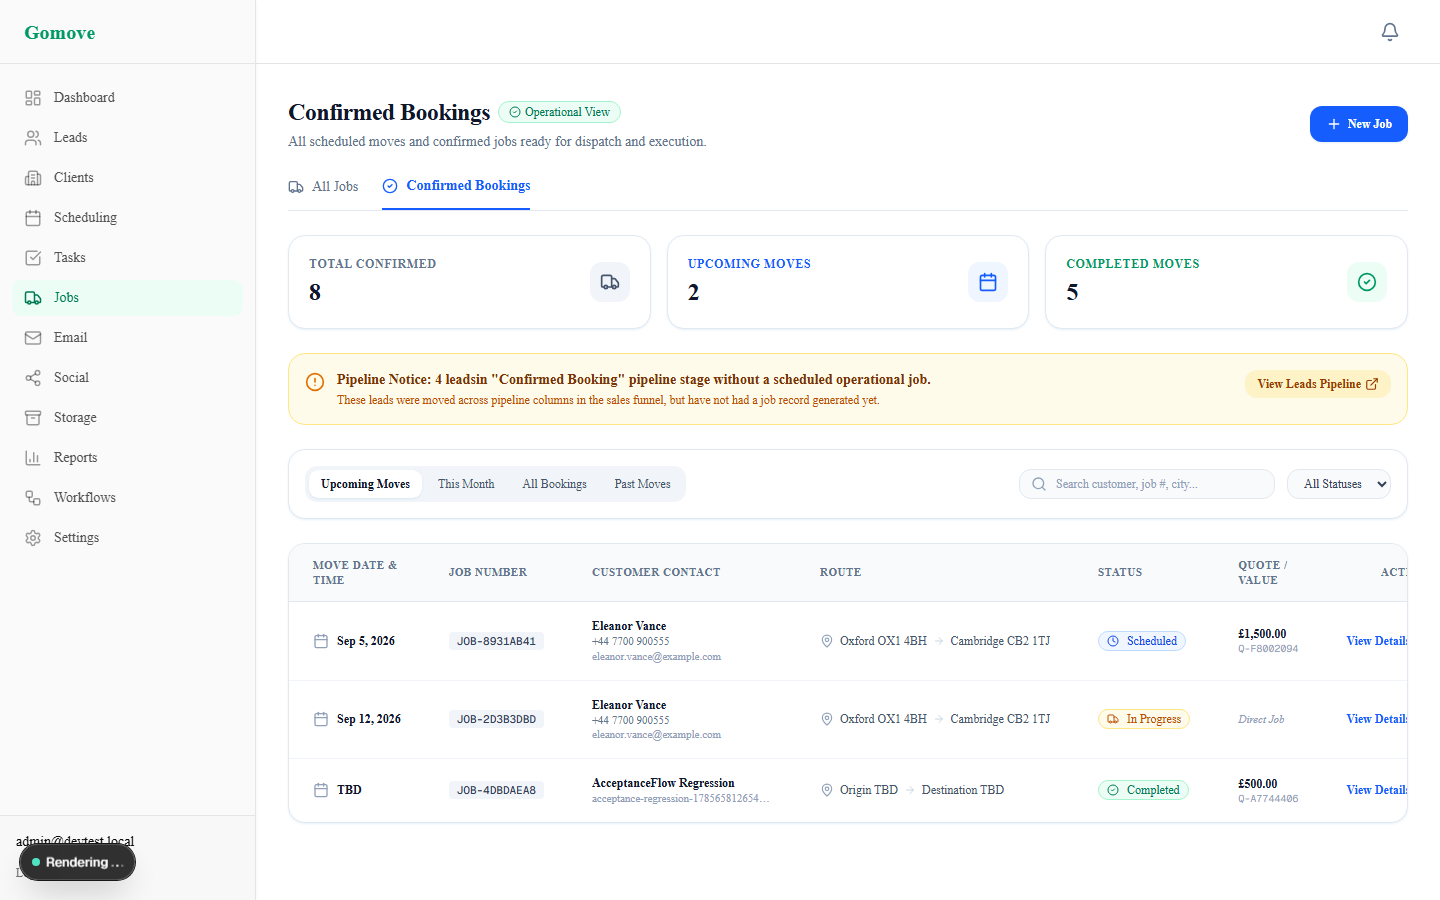
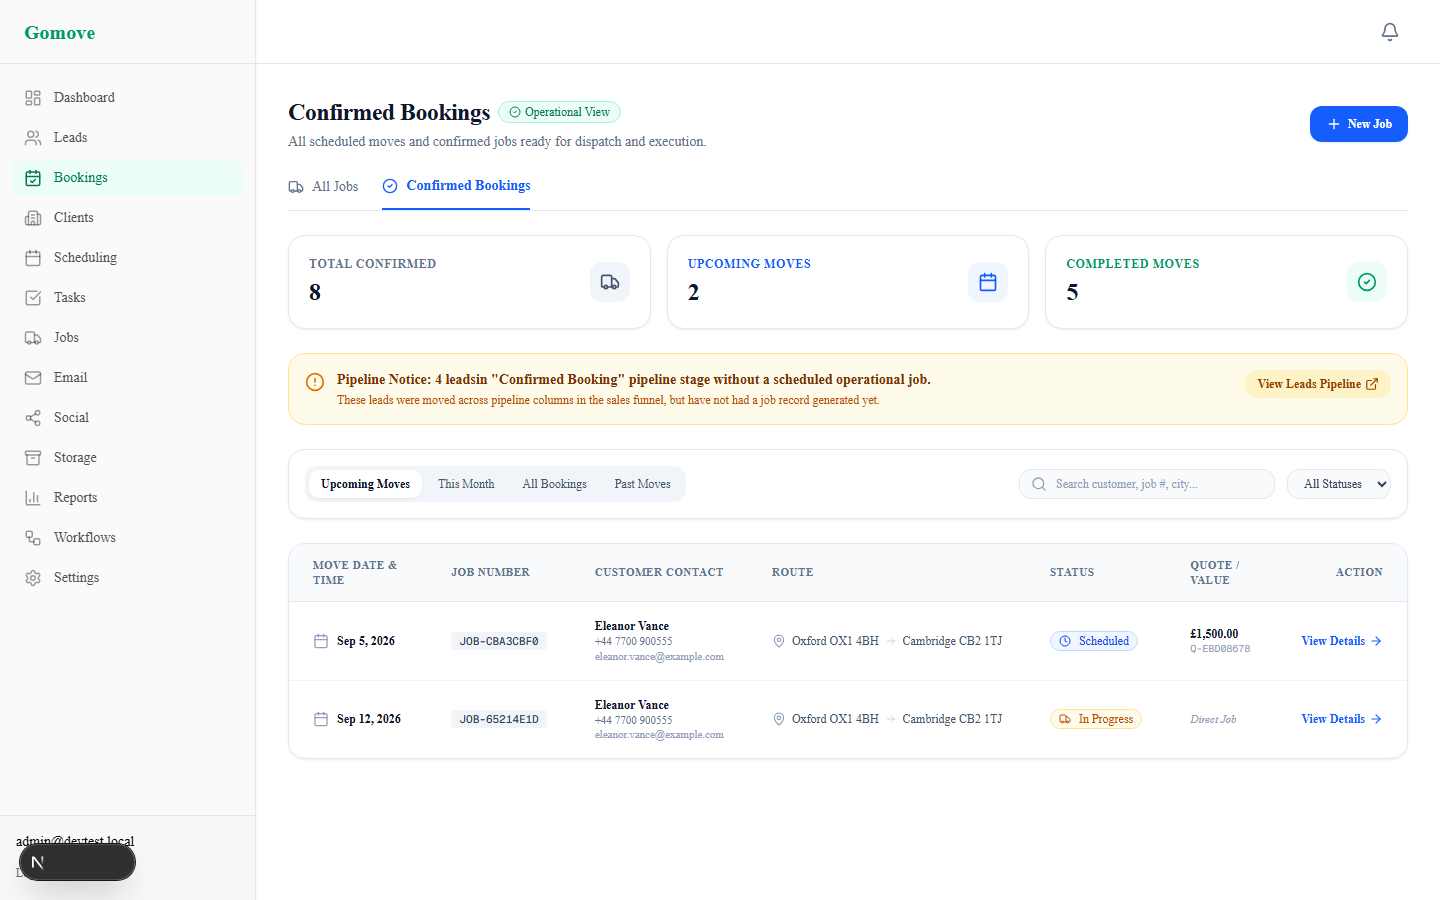
feat(nav): add Bookings to sidebar navigation and refine upcoming filter

diff --git a/src/app/office/jobs/confirmed/components/confirmed-bookings-table.tsx b/src/app/office/jobs/confirmed/components/confirmed-bookings-table.tsx
@@ -41,8 +41,10 @@ export function ConfirmedBookingsTable({
     initialBookings.forEach((b) => {
       if (b.status === 'completed') completed++
       if (b.status === 'scheduled') scheduled++
-      if (b.move_date && (isFuture(new Date(b.move_date)) || format(new Date(b.move_date), 'yyyy-MM-dd') === format(new Date(), 'yyyy-MM-dd'))) {
-        upcoming++
+      if (b.status !== 'completed' && b.status !== 'cancelled') {
+        if (!b.move_date || isFuture(new Date(b.move_date)) || format(new Date(b.move_date), 'yyyy-MM-dd') === format(new Date(), 'yyyy-MM-dd')) {
+          upcoming++
+        }
       }
     })
 
@@ -59,7 +61,8 @@ export function ConfirmedBookingsTable({
     return initialBookings.filter((job) => {
       // 1. Timeframe filter
       if (timeframe === 'upcoming') {
-        if (!job.move_date) return true // TBD moves are considered upcoming
+        if (job.status === 'completed' || job.status === 'cancelled') return false
+        if (!job.move_date) return true // TBD scheduled moves are considered upcoming
         const moveDate = new Date(job.move_date)
         const isUpcomingDate =
           isFuture(moveDate) ||
@@ -88,10 +91,10 @@ export function ConfirmedBookingsTable({
         const customerName = `${job.contact?.first_name || ''} ${job.contact?.last_name || ''}`.toLowerCase()
         const customerEmail = (job.contact?.email || '').toLowerCase()
         const customerPhone = (job.contact?.phone || '').toLowerCase()
-        const jobNumber = (job.job_number || '').toLowerCase()
+        const jobNumber = `JOB-${job.id.slice(0, 8).toUpperCase()}`.toLowerCase()
         const originCity = (job.origin_address?.city || '').toLowerCase()
         const destCity = (job.destination_address?.city || '').toLowerCase()
-        const quoteNum = (job.quote?.quote_number || '').toLowerCase()
+        const quoteNum = job.quote ? `Q-${job.quote.id.slice(0, 8).toUpperCase()}`.toLowerCase() : ''
 
         return (
           customerName.includes(q) ||
@@ -197,7 +200,7 @@ export function ConfirmedBookingsTable({
           <AlertCircle className="w-5 h-5 text-amber-600 shrink-0 mt-0.5" />
           <div className="flex-1">
             <p className="text-sm font-semibold text-amber-900">
-              Pipeline Notice: {unlinkedLeadsCount} lead{unlinkedLeadsCount > 1 ? 's' : ''} in &quot;Confirmed Booking&quot; pipeline stage without a scheduled operational job.
+              Pipeline Notice: {unlinkedLeadsCount} {unlinkedLeadsCount === 1 ? 'lead' : 'leads'} in &quot;Confirmed Booking&quot; pipeline stage without a scheduled operational job.
             </p>
             <p className="text-xs text-amber-700 mt-0.5">
               These leads were moved across pipeline columns in the sales funnel, but have not had a job record generated yet.

diff --git a/scripts/inspect-counts.ts b/scripts/inspect-counts.ts
@@ -1,0 +1,63 @@
+import { createClient } from '@supabase/supabase-js'
+import * as dotenv from 'dotenv'
+import * as path from 'path'
+
+dotenv.config({ path: path.resolve(__dirname, '../.env.local') })
+
+const supabase = createClient(
+  process.env.NEXT_PUBLIC_SUPABASE_URL!,
+  process.env.SUPABASE_SERVICE_ROLE_KEY!
+)
+
+async function inspect() {
+  const { data: user } = await supabase
+    .from('users')
+    .select('tenant_id')
+    .eq('email', 'admin@devtest.local')
+    .single()
+
+  const tenantId = user!.tenant_id!
+
+  console.log('=== LEADS at confirmed_booking ===')
+  const { data: leads } = await supabase
+    .from('leads')
+    .select('id, contact:contacts(first_name, last_name), stage, stage_id')
+    .eq('tenant_id', tenantId)
+    .eq('stage', 'confirmed_booking')
+  console.log('Leads count:', leads?.length)
+  leads?.forEach((l) =>
+    console.log(
+      'Lead:',
+      l.id,
+      (l.contact as any)?.first_name,
+      (l.contact as any)?.last_name,
+      l.stage
+    )
+  )
+
+  console.log('\n=== ALL JOBS for this tenant ===')
+  const { data: jobs } = await supabase
+    .from('jobs')
+    .select('id, status, move_date, quote_id, contact:contacts(first_name, last_name), quote:quotes(id, lead_id)')
+    .eq('tenant_id', tenantId)
+  console.log('Jobs count:', jobs?.length)
+  jobs?.forEach((j) =>
+    console.log(
+      'Job ID:',
+      j.id,
+      'Status:',
+      j.status,
+      'Move date:',
+      j.move_date,
+      'Contact:',
+      (j.contact as any)?.first_name,
+      (j.contact as any)?.last_name,
+      'Quote ID:',
+      j.quote_id,
+      'Linked Lead ID:',
+      (j.quote as any)?.lead_id
+    )
+  )
+}
+
+inspect()

diff --git a/src/app/office/components/header-nav.tsx b/src/app/office/components/header-nav.tsx
@@ -9,6 +9,7 @@ import {
   Users, 
   Building2, 
   Calendar, 
+  CalendarCheck,
   CheckSquare, 
   Truck, 
   Mail, 
@@ -25,10 +26,16 @@ export function SidebarNav({ role }: { role?: string }) {
   const links = [
     { name: 'Dashboard', href: '/office', icon: LayoutDashboard, exact: true },
     { name: 'Leads', href: '/office/leads', icon: Users },
+    { name: 'Bookings', href: '/office/jobs/confirmed', icon: CalendarCheck },
     { name: 'Clients', href: '/office/clients', icon: Building2 },
     { name: 'Scheduling', href: '/office/scheduling', icon: Calendar },
     { name: 'Tasks', href: '/office/tasks', icon: CheckSquare },
-    { name: 'Jobs', href: '/office/jobs', icon: Truck },
+    { 
+      name: 'Jobs', 
+      href: '/office/jobs', 
+      icon: Truck, 
+      isActiveCustom: (path: string) => path === '/office/jobs' || (path.startsWith('/office/jobs/') && !path.startsWith('/office/jobs/confirmed'))
+    },
     { name: 'Email', href: '/office/email', icon: Mail },
     { name: 'Social', href: '/office/social', icon: Share2 },
     { name: 'Storage', href: '/office/storage', icon: Archive },
@@ -40,7 +47,9 @@ export function SidebarNav({ role }: { role?: string }) {
   return (
     <nav className="flex flex-col space-y-1 w-full">
       {links.map((link) => {
-        const isActive = link.exact 
+        const isActive = link.isActiveCustom
+          ? link.isActiveCustom(pathname)
+          : link.exact 
           ? pathname === link.href 
           : pathname.startsWith(link.href)
         
